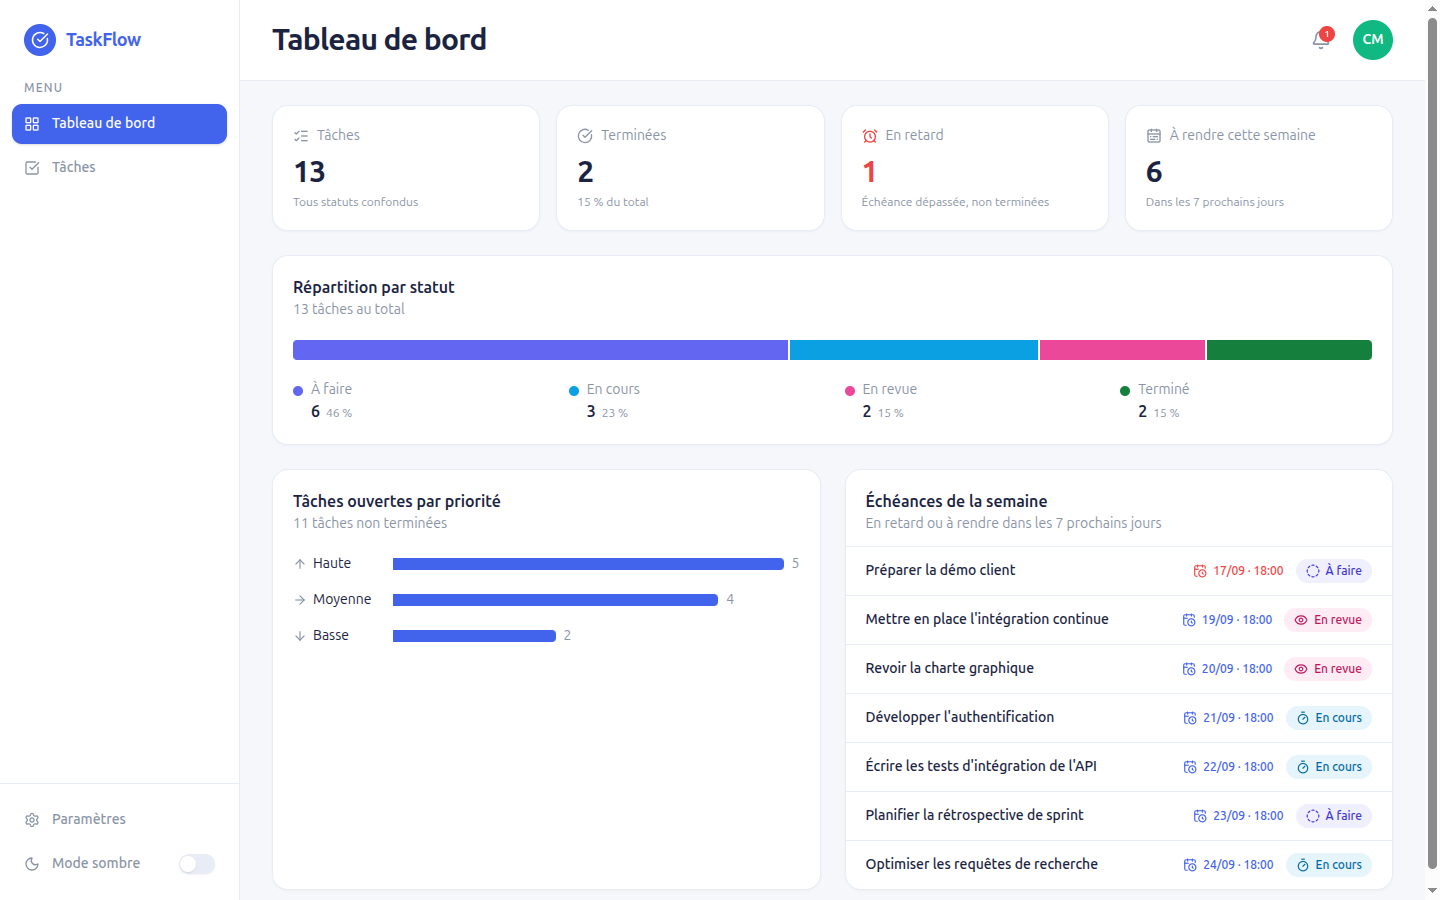
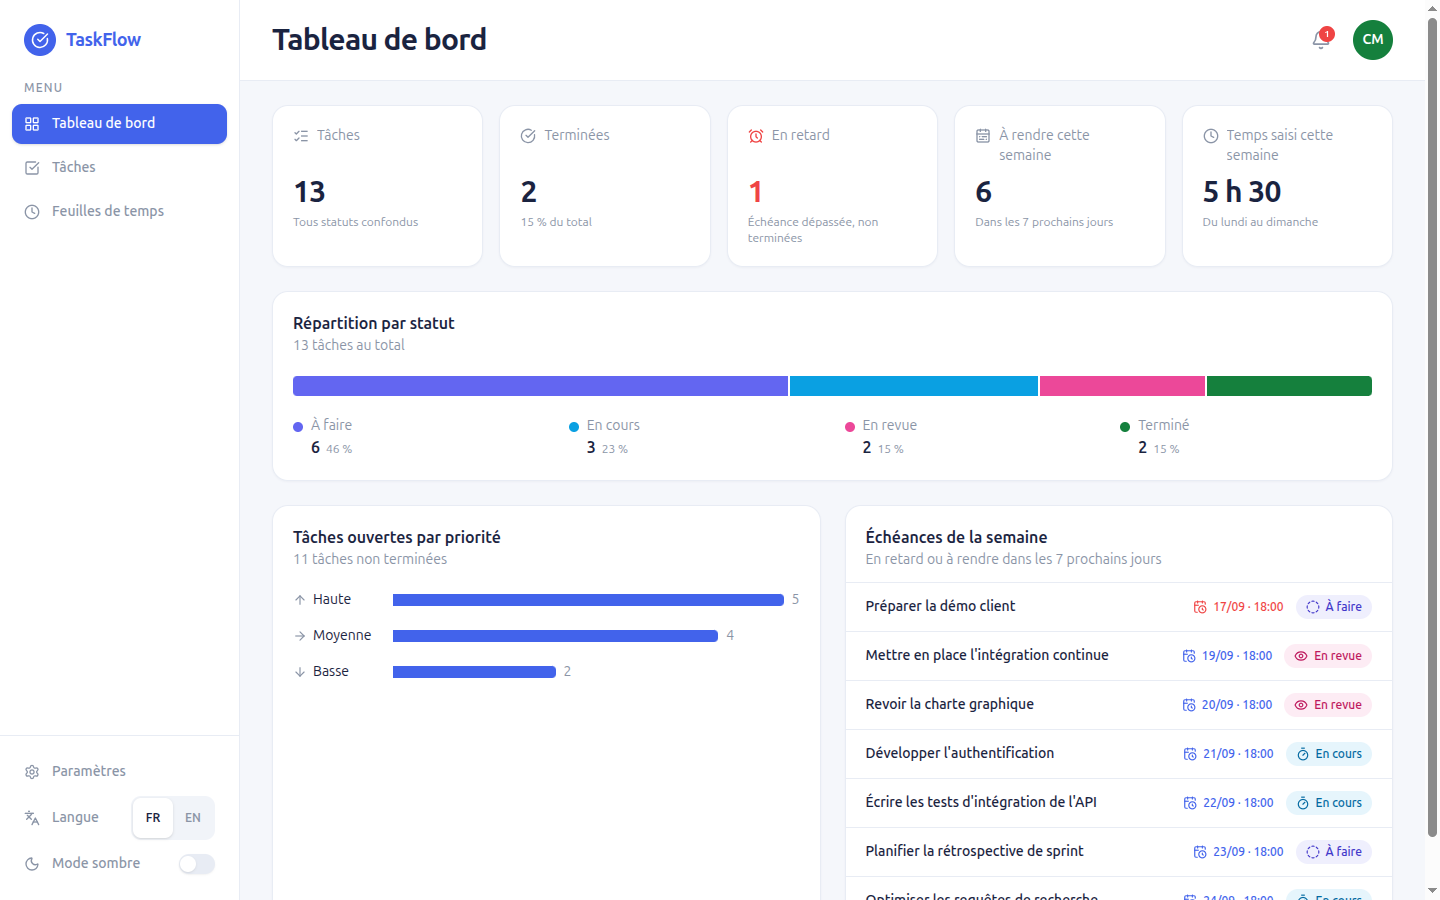
docs: document timesheets, localization and the filter panel

diff --git a/README.md b/README.md
@@ -1,11 +1,12 @@
 # TaskFlow
 
 Application web de gestion de tâches personnelles : chaque utilisateur crée un compte,
-se connecte, puis gère **ses** tâches — création, modification, suppression, recherche,
-filtres et pagination — dans une interface responsive.
+se connecte, puis gère **ses** tâches — tableau Kanban, recherche, filtres, pagination —
+et **le temps qu'il y passe** grâce aux feuilles de temps. Interface responsive,
+en français et en anglais, en thème clair ou sombre.
 
 - **API** : Java 21 · Spring Boot 4 · Spring Security + JWT · JPA / Hibernate · MySQL 8 · Flyway
-- **Interface** : React 19 · TypeScript · Vite · Tailwind CSS 4 · shadcn/ui (Radix) · TanStack Query · dnd-kit
+- **Interface** : React 19 · TypeScript · Vite · Tailwind CSS 4 · shadcn/ui (Radix) · TanStack Query · dnd-kit · i18next
 
 ![Tableau Kanban](docs/screenshots/tasks-kanban.png)
 
@@ -40,9 +41,12 @@ filtres et pagination — dans une interface responsive.
 | Tableau de bord | Chiffres clés, répartition par statut, tâches ouvertes par priorité, échéances de la semaine |
 | Notifications | Cloche de l'en-tête : tâches en retard ou à échéance dans les 24 h |
 | Mode sombre | Interrupteur dans la barre latérale ; suit la préférence du système par défaut, choix mémorisé |
+| Notifications | Messages de succès et d'erreur colorés selon leur type (vert, rouge, orange, bleu) |
 | Liste | Uniquement les tâches de l'utilisateur connecté, les plus récentes d'abord |
 | Recherche | Insensible à la casse, sur le titre **et** la description, déclenchée 300 ms après la frappe |
-| Filtres | Par statut (`À faire`, `En cours`, `En revue`, `Terminé`) et par priorité (`Basse`, `Moyenne`, `Haute`), cumulables avec la recherche |
+| Filtres | Bouton « Filtres » : pastilles de priorité (`Basse`, `Moyenne`, `Haute`) et de statut (`À faire`, `En cours`, `En revue`, `Terminé`), filtres actifs en étiquettes supprimables, cumulables avec la recherche |
+| Feuilles de temps | Saisie du temps passé sur une tâche (« 1h30 », « 45m », « 2 »…) ; grille hebdomadaire tâches × jours avec totaux par tâche, par jour et pour la semaine ; navigation d'une semaine à l'autre ; export CSV compatible Excel ; temps total affiché sur chaque tâche |
+| Langues | Français et anglais : langue du navigateur au premier accès, puis choix mémorisé ; les messages d'erreur de l'API suivent la langue |
 | Pagination | 10 tâches par page, « x–y sur N », boutons désactivés aux extrémités |
 | Erreurs | Format d'erreur unique côté API ; messages du serveur affichés sous les champs ou dans le formulaire ; écran « Réessayer » si le serveur est injoignable |
 | Responsive | Colonnes Kanban défilantes et menu en tiroir sur mobile, tableau remplacé par des cartes ; cibles tactiles ≥ 40 px |
@@ -69,6 +73,7 @@ bouton « retour » du navigateur fonctionne. Une échéance dépassée est sign
 | Styles | Tailwind CSS | 4 |
 | Composants | shadcn/ui sur Radix UI, icônes lucide-react | — |
 | Glisser-déposer | dnd-kit | 6 |
+| Traduction | i18next, react-i18next | 26 / 17 |
 | État serveur | TanStack Query | 5 |
 | Formulaires | react-hook-form + Zod | 7 / 4 |
 | Routage / HTTP | React Router, axios | 7 / 1 |
@@ -251,6 +256,11 @@ l'en-tête `Authorization: Bearer <jeton>`.
 | `PATCH` | `/tasks/{id}/status` | `200` | Change uniquement le statut (`{"status": "DONE"}`) — glisser-déposer du Kanban |
 | `GET` | `/tasks/stats` | `200` | Totaux par statut, tâches ouvertes par priorité, en retard, à rendre sous 7 jours |
 | `GET` | `/tasks/due?withinHours=24` | `200` | Tâches non terminées en retard ou à échéance dans la fenêtre (1 h à 30 jours), 20 au plus |
+| `GET` | `/time-entries?from=2026-09-14&to=2026-09-20` | `200` | Saisies de temps de la période (62 jours au plus), du plus ancien au plus récent |
+| `GET` | `/tasks/{id}/time-entries` | `200` | Saisies de temps d'une tâche, les plus récentes d'abord |
+| `POST` | `/time-entries` | `201` | Saisit du temps : `taskId`, `workDate` (`AAAA-MM-JJ`), `durationMinutes` (1 à 1440), `note` |
+| `PUT` | `/time-entries/{id}` | `200` | Modifie une saisie |
+| `DELETE` | `/time-entries/{id}` | `204` | Supprime une saisie |
 | `DELETE` | `/tasks/{id}` | `204` | Supprime une tâche |
 | `GET` | `/actuator/health` | `200` | État de l'application — **public**, hors `/api/v1` |
 
@@ -266,6 +276,10 @@ l'en-tête `Authorization: Bearer <jeton>`.
 | `sort` | `createdAt,desc` | Champs autorisés : `createdAt`, `dueDate`, `title`, `priority`, `status` |
 
 Réponse paginée : `content`, `page`, `size`, `totalElements`, `totalPages`, `first`, `last`.
+Chaque tâche expose aussi `timeSpentMinutes`, son temps total saisi.
+
+**Langue des messages** : l'API répond en français par défaut, en anglais avec
+`Accept-Language: en` (erreurs métier, validation, 401/403).
 
 **Format d'erreur unique** — toutes les erreurs, sans exception :
 
@@ -323,9 +337,10 @@ auth/        inscription, connexion                 (controller → service → 
 user/        profil, mot de passe                   (entité, repository, service, mapper, controller)
 task/        CRUD, recherche, filtres, pagination   (+ Specifications, PageRequests)
              statistiques et échéances              (TaskInsightService, lectures agrégées)
+timeentry/   feuilles de temps                      (entité, repository, service, mapper, controller)
 security/    JwtService, filtre JWT, @CurrentUser, réponses 401/403 au format commun
 config/      SecurityConfig, CorsConfig
-common/      PageResponse, format d'erreur, GlobalExceptionHandler, Auditable
+common/      PageResponse, format d'erreur, GlobalExceptionHandler, Auditable, Messages (traduction)
 ```
 
 Le contrôleur ne contient aucune logique métier ; le service porte les règles et les
@@ -342,11 +357,13 @@ src/
 │   ├── auth/     contexte d'authentification, pages Connexion et Inscription
 │   ├── tasks/    page Tâches (Kanban, tableau, liste), filtres, modales, cloche, taskMeta
 │   ├── dashboard/ tableau de bord
+│   ├── timesheets/ feuilles de temps, saisie de temps, export CSV
 │   └── profile/  page Profil, formulaires
 ├── shared/
 │   ├── api/      client HTTP unique, traduction des erreurs
 │   ├── ui/       primitives shadcn/ui (Radix)
 │   ├── components/ formulaires, états vides/erreur/chargement, coquille (sidebar, en-tête)
+│   ├── i18n/     traduction (dictionnaires fr/en typés, sélecteur de langue)
 │   ├── theme/    mode sombre
 │   └── hooks/, lib/, config/, types/
 └── styles/       jetons de couleur du design system
@@ -376,6 +393,10 @@ de jetons de couleur.
 | **dnd-kit pour le Kanban** | Glisser-déposer à la souris, au doigt **et au clavier**, avec annonces pour lecteurs d'écran | react-beautiful-dnd (abandonné), glisser-déposer HTML5 natif (inaccessible au clavier) |
 | **Déplacement optimiste** | La carte change de colonne immédiatement ; elle revient à sa place avec un message si le serveur refuse | Attendre la réponse avant de bouger la carte |
 | **`PATCH /status` dédié** | Un déplacement n'envoie que le statut : pas de risque d'écraser un champ modifié entre-temps | Renvoyer toute la tâche avec `PUT` |
+| **Traduction de bout en bout** | Interface (i18next, clés vérifiées à la compilation : une clé absente en anglais ne compile pas) **et** API (`messages*.properties` selon `Accept-Language`) : un anglophone ne voit jamais un message français | Traduire l'interface seule |
+| **`user_id` sur chaque saisie de temps** | Les lectures de feuilles de temps filtrent directement sur le propriétaire, comme les tâches ; la tâche visée est vérifiée à chaque écriture | Passer par la tâche pour retrouver le propriétaire |
+| **Temps total calculé en SQL** (`@Formula`) | Chaque liste de tâches obtient son temps total dans la même requête, sans appel par tâche | Stocker un total à maintenir à la main |
+| **Jours en `LocalDate`** | Une feuille de temps compte des journées, pas des instants : pas de décalage de fuseau | Stocker des horodatages |
 | **Palette de statuts validée** | Couleurs de la maquette ré-étagées pour rester distinctes en cas de daltonisme, en clair comme en sombre ; le texte coloré a ses propres nuances contrastées | Reprendre les couleurs de la maquette telles quelles |
 | **Un seul `.env` racine** | Une seule source de configuration pour Docker, l'API et Vite | Un fichier par module |
 | **nginx relaie `/api` dans l'image de l'interface** | Même origine pour le navigateur : pas de CORS à ouvrir, un seul port exposé, image indépendante de l'adresse de l'API | Appeler l'API sur un autre port et élargir le CORS |
@@ -398,7 +419,7 @@ de jetons de couleur.
 
 ## Tests et qualité
 
-**API** — 31 tests, exécutés sur une base H2 en mémoire (MySQL n'est pas nécessaire) :
+**API** — 39 tests, exécutés sur une base H2 en mémoire (MySQL n'est pas nécessaire) :
 
 ```bash
 cd task-manager-api-v1
@@ -408,11 +429,13 @@ cd task-manager-api-v1
 | Classe | Tests | Ce qui est vérifié |
 |--------|-------|--------------------|
 | `TaskRepositoryIsolationTest` | 8 | Le propriétaire retrouve sa tâche ; un autre utilisateur ne peut ni la lire, ni la supprimer, ni la trouver par recherche ou filtre ; statistiques et échéances limitées au propriétaire, tâches terminées exclues ; horodatage automatique |
-| `TaskApiSecurityTest` | 5 | Bout en bout HTTP : `401` sans jeton sur toutes les routes, `404` sur la tâche d'autrui pour chaque verbe (changement de statut compris, sans effet), liste et statistiques limitées au demandeur, statuts et format d'erreur conservés |
+| `TaskApiSecurityTest` | 6 | Bout en bout HTTP : `401` sans jeton sur toutes les routes, `404` sur la tâche d'autrui pour chaque verbe (changement de statut compris, sans effet), liste et statistiques limitées au demandeur, statuts et format d'erreur conservés, messages en anglais ou en français selon `Accept-Language` |
+| `TimeEntryRepositoryIsolationTest` | 3 | Semaine limitée au propriétaire ; saisie d'autrui ni lisible ni supprimable ; total d'une tâche calculé en base, saisies supprimées avec la tâche |
+| `TimeEntryApiTest` | 3 | Routes fermées sans jeton ; saisie, modification et suppression par le propriétaire, `404` pour tout autre ; validation traduite |
 | `JwtServiceTest` | 8 | Jeton relu correctement ; jeton altéré, signé par une autre clé, expiré ou illisible refusé ; secret absent ou trop court refusé ; durée conforme |
 | `TaskServiceTest` | 4 | Tâche rattachée à l'utilisateur authentifié ; tâche d'autrui introuvable en lecture et en suppression, modification sans aucune écriture |
 | `AuthServiceTest` | 3 | Email en double refusé, email normalisé et mot de passe haché, message générique sur identifiants invalides |
-| `GlobalExceptionHandlerTest` | 3 | Erreur inattendue → `500` neutre, code métier conservé, chaque code porte son statut HTTP |
+| `GlobalExceptionHandlerTest` | 4 | Erreur inattendue → `500` neutre, code métier conservé, chaque code porte son statut HTTP, message dans la langue demandée (français si langue inconnue) |
 
 **Interface** :
 
@@ -430,17 +453,17 @@ comptes, navigation au clavier, largeurs 375, 768 et 1440 px.
 
 ## Captures d'écran
 
-| Tableau de bord | Mode sombre |
-|-----------------|-------------|
-| ![Tableau de bord](docs/screenshots/dashboard.png) | ![Kanban en mode sombre](docs/screenshots/tasks-kanban-dark.png) |
+| Feuille de temps | Tableau de bord |
+|------------------|-----------------|
+| ![Feuille de temps](docs/screenshots/timesheets.png) | ![Tableau de bord](docs/screenshots/dashboard.png) |
 
-| Vue Tableau | Modification d'une tâche |
-|-------------|--------------------------|
-| ![Vue Tableau](docs/screenshots/tasks-table.png) | ![Modale d'édition](docs/screenshots/task-dialog.png) |
+| Anglais, mode sombre, filtre actif | Vue Tableau |
+|------------------------------------|-------------|
+| ![Kanban en anglais et en mode sombre](docs/screenshots/tasks-kanban-dark.png) | ![Vue Tableau](docs/screenshots/tasks-table.png) |
 
-| Mobile | Connexion |
-|--------|-----------|
-| ![Kanban sur mobile](docs/screenshots/tasks-mobile.png) | ![Connexion](docs/screenshots/login.png) |
+| Modification d'une tâche | Mobile | Connexion |
+|--------------------------|--------|-----------|
+| ![Modale d'édition](docs/screenshots/task-dialog.png) | ![Kanban sur mobile](docs/screenshots/tasks-mobile.png) | ![Connexion](docs/screenshots/login.png) |
 
 ---
 
@@ -454,7 +477,12 @@ Choix assumés pour tenir le périmètre, et ce qu'il faudrait faire ensuite :
 - **Pas de refresh token** : la session expire au bout de 24 h, il faut se reconnecter.
 - **Pas de tests automatisés côté interface** : vérifications faites dans le navigateur.
   Piste : Vitest + Testing Library, puis Playwright pour les parcours.
-- **Bundle JavaScript en un seul fichier** (~770 kB, ~240 kB gzip). Piste : découpage par route.
+- **Bundle JavaScript en un seul fichier** (~850 kB, ~265 kB gzip). Piste : découpage par route.
+- **Feuilles de temps volontairement simples** : pas de minuteur, pas de validation par un
+  responsable, export limité à la semaine affichée ; le sélecteur d'ajout de ligne propose
+  les 50 premières tâches par ordre alphabétique.
+- **Traduction** : l'interface et les messages de l'API sont traduits ; les contenus saisis
+  par l'utilisateur (titres, descriptions) restent tels quels.
 - **Kanban limité à 50 cartes par colonne** : au-delà, un lien ouvre la vue Tableau filtrée
   sur le statut (paginée). Pas d'ordre manuel des cartes au sein d'une colonne.
 - **Notifications calculées à la demande** : rafraîchies à chaque modification et chaque
